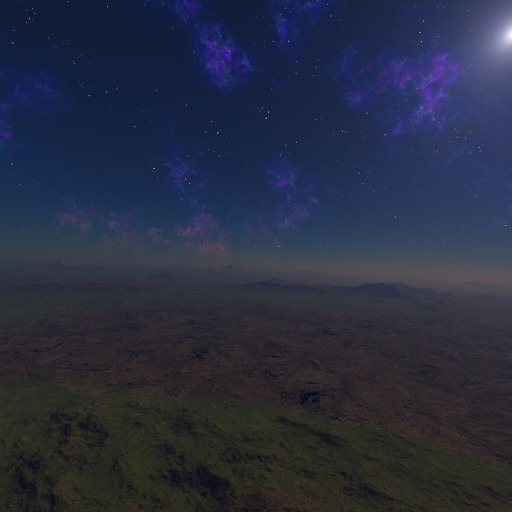
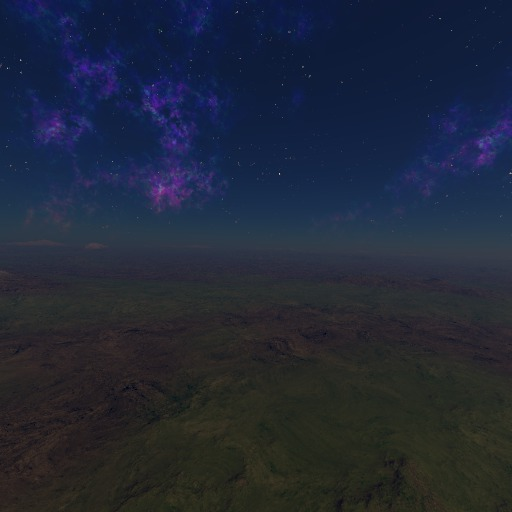
스카이박스 순서 변경

diff --git a/CGFinalProject/game.cpp b/CGFinalProject/game.cpp
@@ -52,7 +52,7 @@ void Game::Init() {
     stage = new Stage(currentStage);
     character = new Character();
 
-
+    CenterMouse();
 
 
     coins.clear();
@@ -154,12 +154,12 @@ void Game::Init() {
 
         std::vector<std::string> faces
         {
-            "res/skybox/3-1.png",
-            "res/skybox/3-2.png",
-            "res/skybox/3-3.png",
-            "res/skybox/3-4.png",
-            "res/skybox/3-5.png",
-            "res/skybox/3-6.png"
+            "res/skybox/corona_ft.png",
+            "res/skybox/corona_bk.png",
+            "res/skybox/corona_up.png",
+            "res/skybox/corona_dn.png",
+            "res/skybox/corona_rt.png",
+            "res/skybox/corona_lf.png"
         };
         skybox = new Skybox(faces);
 
@@ -233,8 +233,8 @@ void Game::Run() {
     glutKeyboardFunc(KeyboardDownCallback);
     glutKeyboardUpFunc(KeyboardUpCallback);
     glutReshapeFunc(ReshapeCallback);
-    glutMouseFunc(MouseCallback);  // 마우스 클릭 콜백
-    glutMotionFunc(MotionCallback); // 마우스 이동 콜백
+    glutPassiveMotionFunc(PassiveMotionCallback); 
+    glutSetCursor(GLUT_CURSOR_NONE); // 커서 가리기
     glutMainLoop();
 }
 
@@ -457,6 +457,8 @@ void Game::DisplayCallback() {
     instance->deltaTime = currentFrame - instance->lastFrame;
     instance->lastFrame = currentFrame;
 
+    instance->CenterMouse();
+
     instance->Update(instance->deltaTime);
     instance->Render();
 }
@@ -524,6 +526,17 @@ bool Game::CheckCollisionAABBAndSphere(const Character& character, const Obstacl
     return distance <= sphereRadius;
 
 }
+void Game::CenterMouse() {
+    int centerX = glutGet(GLUT_WINDOW_WIDTH) / 2;
+    int centerY = glutGet(GLUT_WINDOW_HEIGHT) / 2;
+
+    // 마우스를 창의 중심으로 이동
+    glutWarpPointer(centerX, centerY);
+
+    // 이전 마우스 위치를 중앙으로 설정
+    lastMouseX = centerX;
+    lastMouseY = centerY;
+}
 
 void Game::MouseCallback(int button, int state, int x, int y) {
     if (button == GLUT_LEFT_BUTTON) {
@@ -534,29 +547,56 @@ void Game::MouseCallback(int button, int state, int x, int y) {
 }
 
 void Game::MotionCallback(int x, int y) {
-    if (instance->leftMouseButtonDown) {
-        // 마우스 이동량 계산
-        float deltaX = x - instance->lastMouseX;
-        float deltaY = y - instance->lastMouseY;
+    int centerX = glutGet(GLUT_WINDOW_WIDTH) / 2;
+    int centerY = glutGet(GLUT_WINDOW_HEIGHT) / 2;
 
-        // 민감도 조정
-        float sensitivity = 0.1f;
-        deltaX *= sensitivity;
-        deltaY *= sensitivity;
+    // 마우스 이동량 계산
+    float deltaX = x - instance->lastMouseX;
+    float deltaY = y - instance->lastMouseY;
 
-        // 카메라 회전
-        instance->camera->Yaw += deltaX;
-        instance->camera->Pitch -= deltaY;
+    // 민감도 조정
+    float sensitivity = 0.1f;
+    deltaX *= sensitivity;
+    deltaY *= sensitivity;
 
-        // Pitch 제한 (카메라가 수직 방향으로 완전히 돌아가는 것을 방지)
-        if (instance->camera->Pitch > 89.0f) instance->camera->Pitch = 89.0f;
-        if (instance->camera->Pitch < -89.0f) instance->camera->Pitch = -89.0f;
+    // 카메라 회전 업데이트
+    instance->camera->Yaw += deltaX;
+    instance->camera->Pitch -= deltaY;
 
-        // 새로운 마우스 위치 업데이트
-        instance->lastMouseX = x;
-        instance->lastMouseY = y;
+    // Pitch 제한
+    if (instance->camera->Pitch > 89.0f) instance->camera->Pitch = 89.0f;
+    if (instance->camera->Pitch < -89.0f) instance->camera->Pitch = -89.0f;
 
-        std::cout << "Camera Yaw: " << instance->camera->Yaw
-            << ", Pitch: " << instance->camera->Pitch << std::endl;
-    }
+    // 마우스를 창의 중심으로 이동
+    instance->CenterMouse();
+}
+
+
+void Game::PassiveMotionCallback(int x, int y) {
+    int centerX = glutGet(GLUT_WINDOW_WIDTH) / 2;
+    int centerY = glutGet(GLUT_WINDOW_HEIGHT) / 2;
+
+    // 마우스 이동량 계산
+    float deltaX = x - instance->lastMouseX;
+    float deltaY = y - instance->lastMouseY;
+
+    // 민감도 조정
+    float sensitivity = 0.1f;
+    deltaX *= sensitivity;
+    deltaY *= sensitivity;
+
+    // 카메라 회전 업데이트
+    instance->camera->Yaw += deltaX;
+    instance->camera->Pitch -= deltaY;
+
+    // Pitch 제한
+    if (instance->camera->Pitch > 89.0f) instance->camera->Pitch = 89.0f;
+    if (instance->camera->Pitch < -89.0f) instance->camera->Pitch = -89.0f;
+
+    // 마우스 마지막 위치 업데이트
+    instance->lastMouseX = x;
+    instance->lastMouseY = y;
+
+    // 마우스를 창의 중심으로 이동
+    instance->CenterMouse();
 }

diff --git a/CGFinalProject/skybox.cpp b/CGFinalProject/skybox.cpp
@@ -70,41 +70,42 @@ void Skybox::InitRenderData() {
          1.0f, -1.0f, -1.0f,
          1.0f,  1.0f, -1.0f,
         -1.0f,  1.0f, -1.0f,
-
+        // -z
         -1.0f, -1.0f,  1.0f,
         -1.0f, -1.0f, -1.0f,
         -1.0f,  1.0f, -1.0f,
         -1.0f,  1.0f, -1.0f,
         -1.0f,  1.0f,  1.0f,
         -1.0f, -1.0f,  1.0f,
-
+        //-x
          1.0f, -1.0f, -1.0f,
          1.0f, -1.0f,  1.0f,
          1.0f,  1.0f,  1.0f,
          1.0f,  1.0f,  1.0f,
          1.0f,  1.0f, -1.0f,
          1.0f, -1.0f, -1.0f,
-
+        //+x
         -1.0f, -1.0f,  1.0f,
         -1.0f,  1.0f,  1.0f,
          1.0f,  1.0f,  1.0f,
          1.0f,  1.0f,  1.0f,
          1.0f, -1.0f,  1.0f,
         -1.0f, -1.0f,  1.0f,
-
+        // +z
         -1.0f,  1.0f, -1.0f,
          1.0f,  1.0f, -1.0f,
          1.0f,  1.0f,  1.0f,
          1.0f,  1.0f,  1.0f,
         -1.0f,  1.0f,  1.0f,
         -1.0f,  1.0f, -1.0f,
-
+        //+y
         -1.0f, -1.0f, -1.0f,
         -1.0f, -1.0f,  1.0f,
          1.0f, -1.0f, -1.0f,
          1.0f, -1.0f, -1.0f,
         -1.0f, -1.0f,  1.0f,
          1.0f, -1.0f,  1.0f
+         //-y
     };
 
     glGenVertexArrays(1, &skyboxVAO);

diff --git a/CGFinalProject/game.h b/CGFinalProject/game.h
@@ -51,6 +51,7 @@ public:
     static void ReshapeCallback(int width, int height);
     static void MouseCallback(int button, int state, int x, int y); // 마우스 클릭 콜백
     static void MotionCallback(int x, int y);
+    static void PassiveMotionCallback(int x, int y);
 private:
     static Game* instance;
     float deltaTime;
